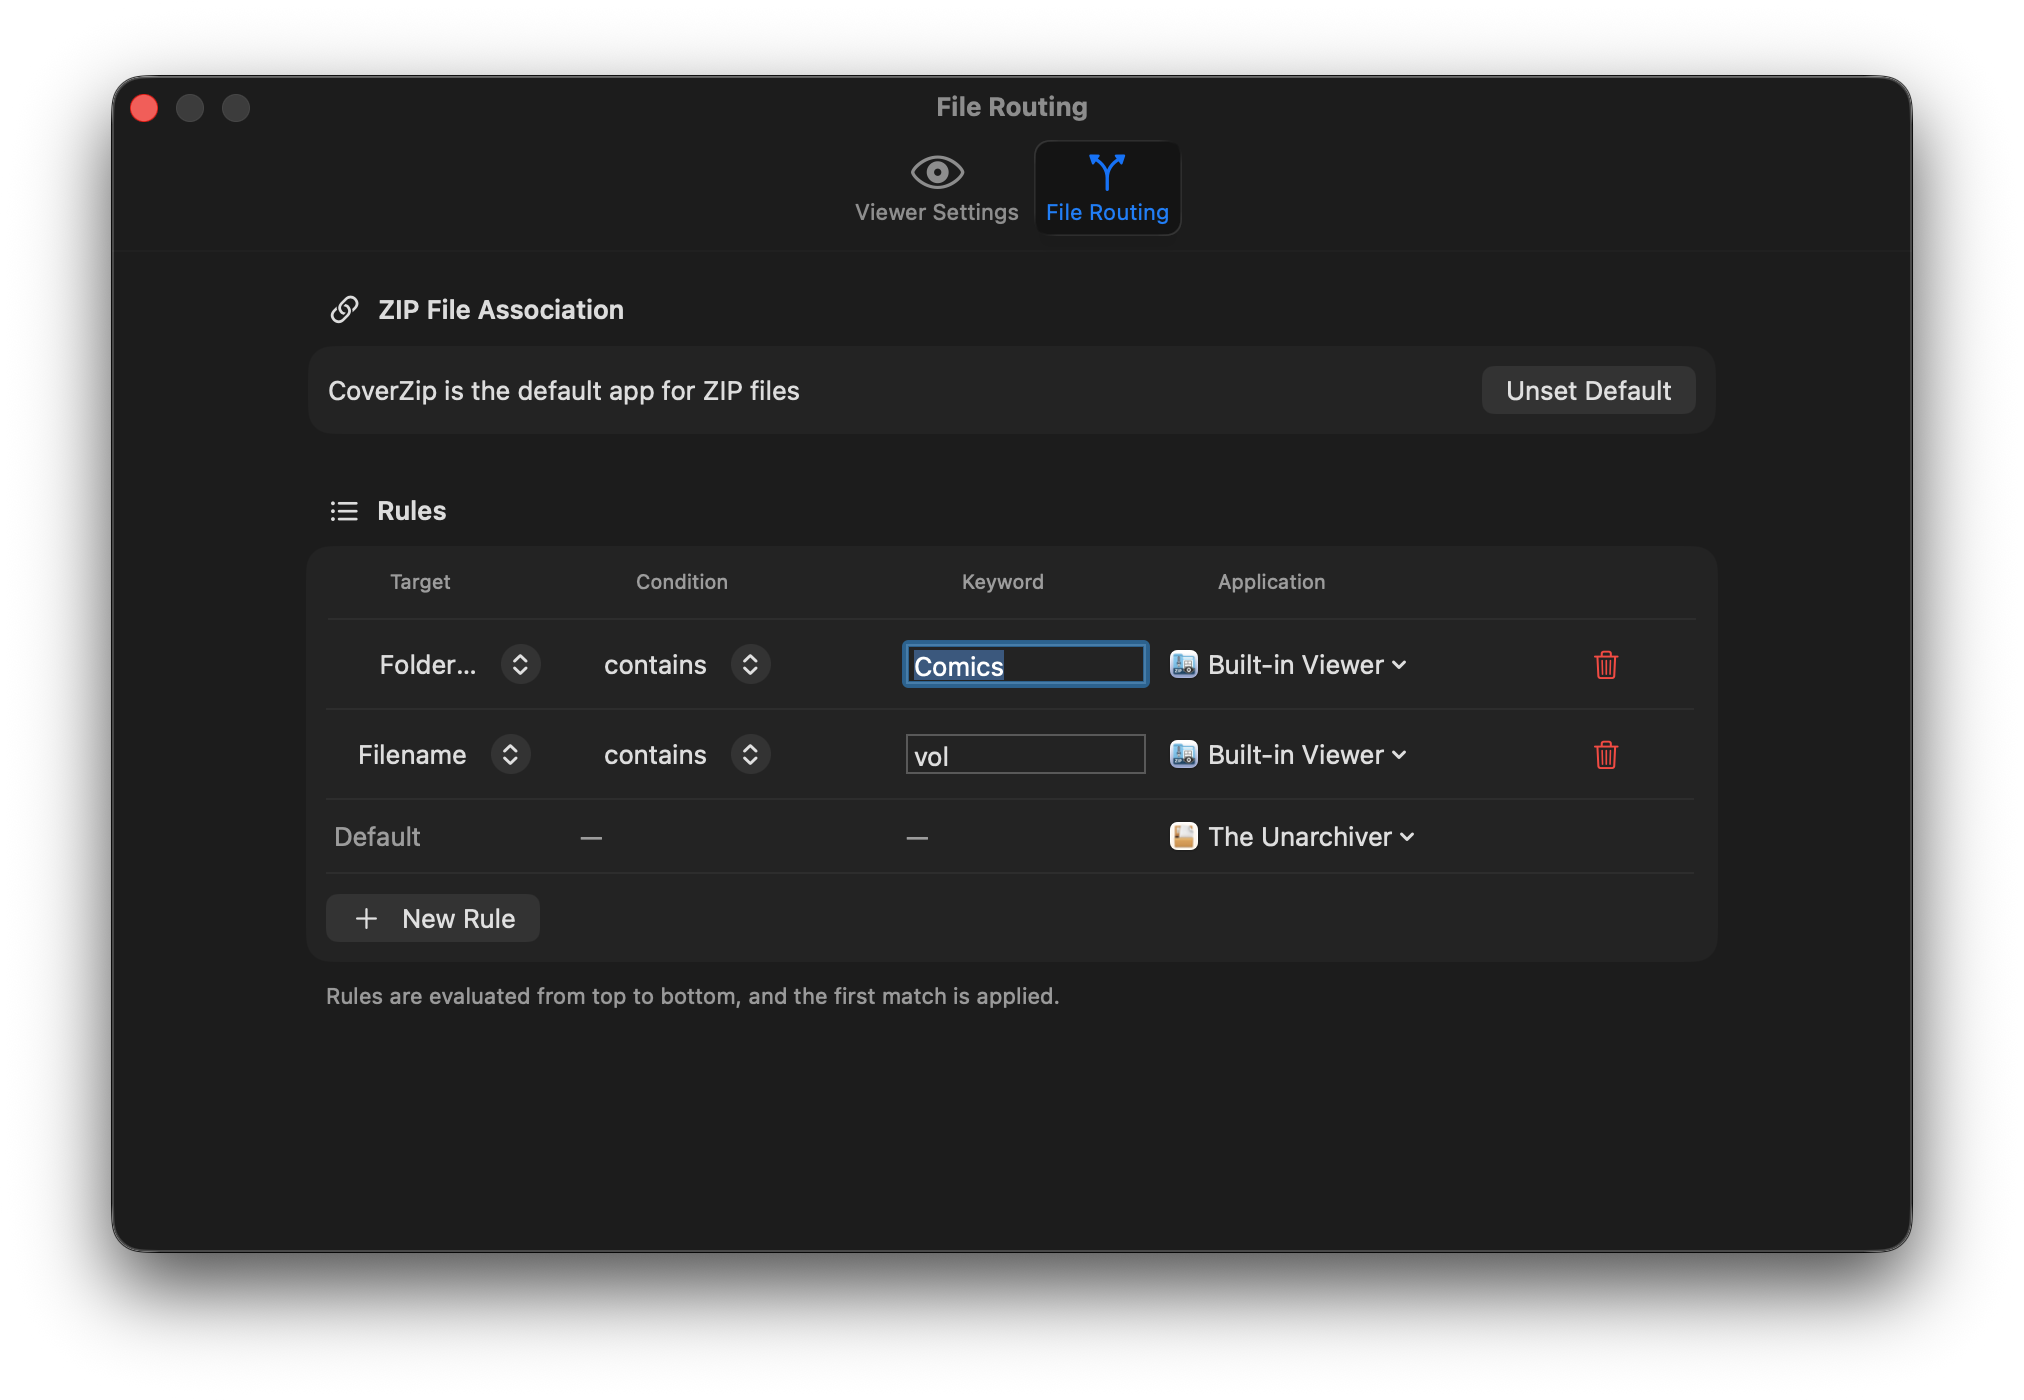
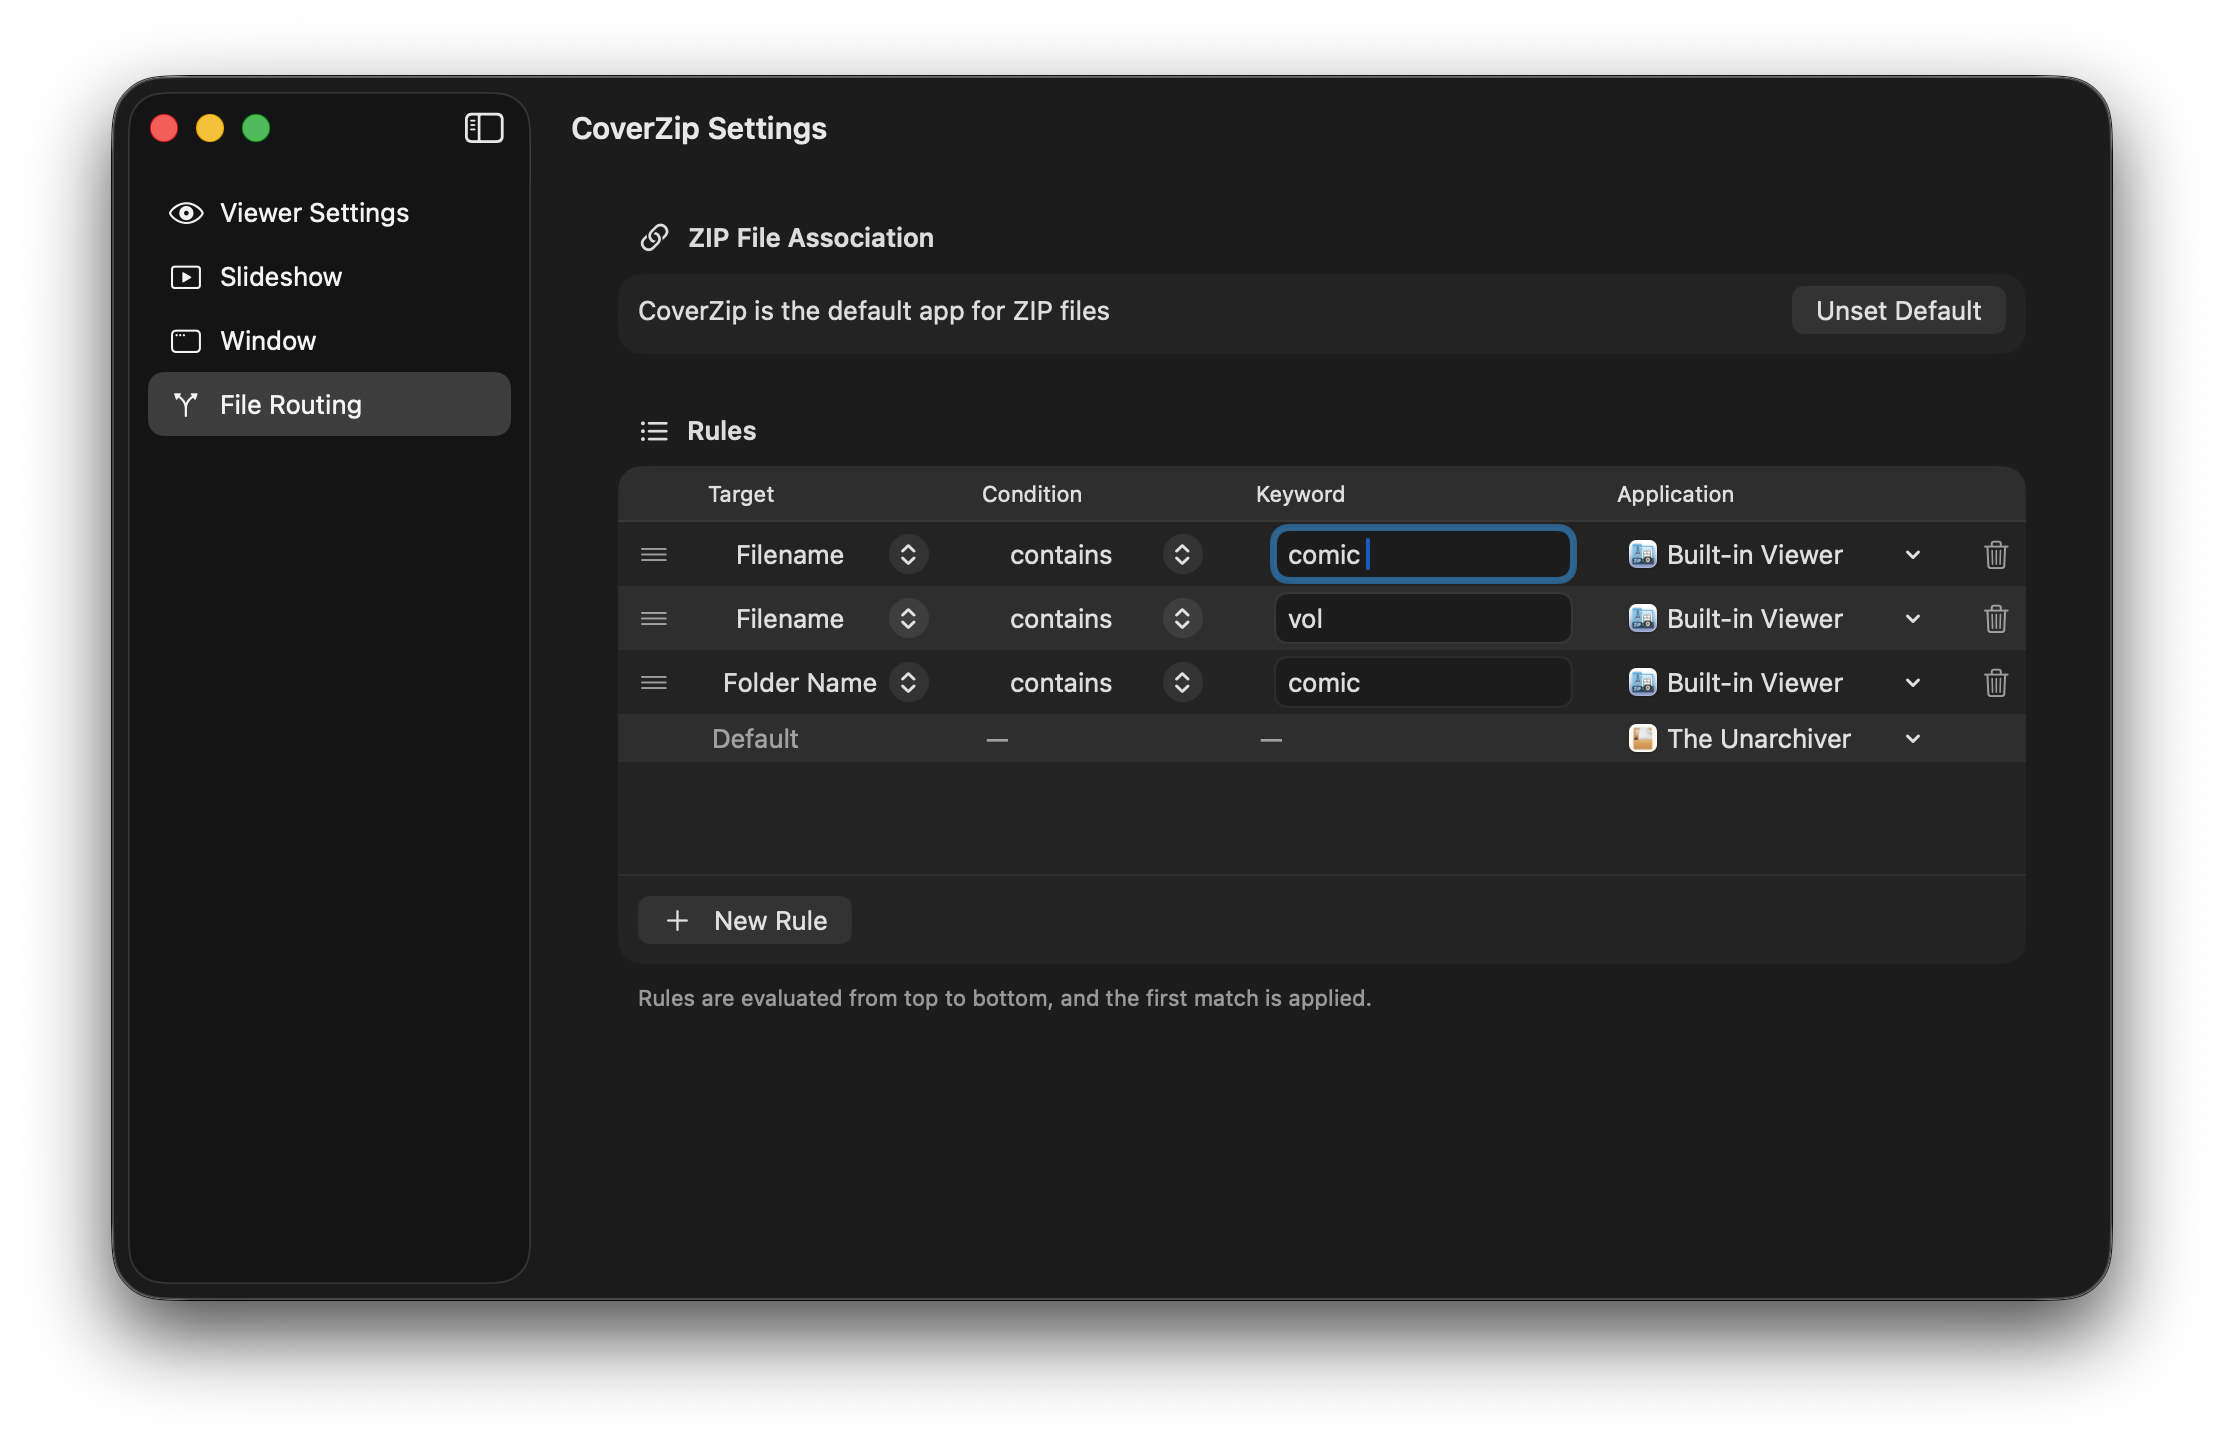
fix: 設定メニューのボタンラベルを修正

diff --git a/CoverZip/Commands/SettingsMenuCommands.swift b/CoverZip/Commands/SettingsMenuCommands.swift
@@ -13,9 +13,15 @@ struct SettingsMenuCommands: Commands {
 
     var body: some Commands {
         CommandGroup(replacing: .appSettings) {
-            Button(CZLocalized.string("menu.app.settings", defaultValue: "Settings…")) {
+            Button {
                 NSApp.activate(ignoringOtherApps: true)
                 openWindow(id: AppWindowIdentifier.settings)
+            }
+            label: {
+                Label(
+                    CZLocalized.string("menu.app.settings", defaultValue: "Settings…"),
+                    systemImage: "gearshape"
+                )
             }
             .keyboardShortcut(",", modifiers: [.command])
         }
